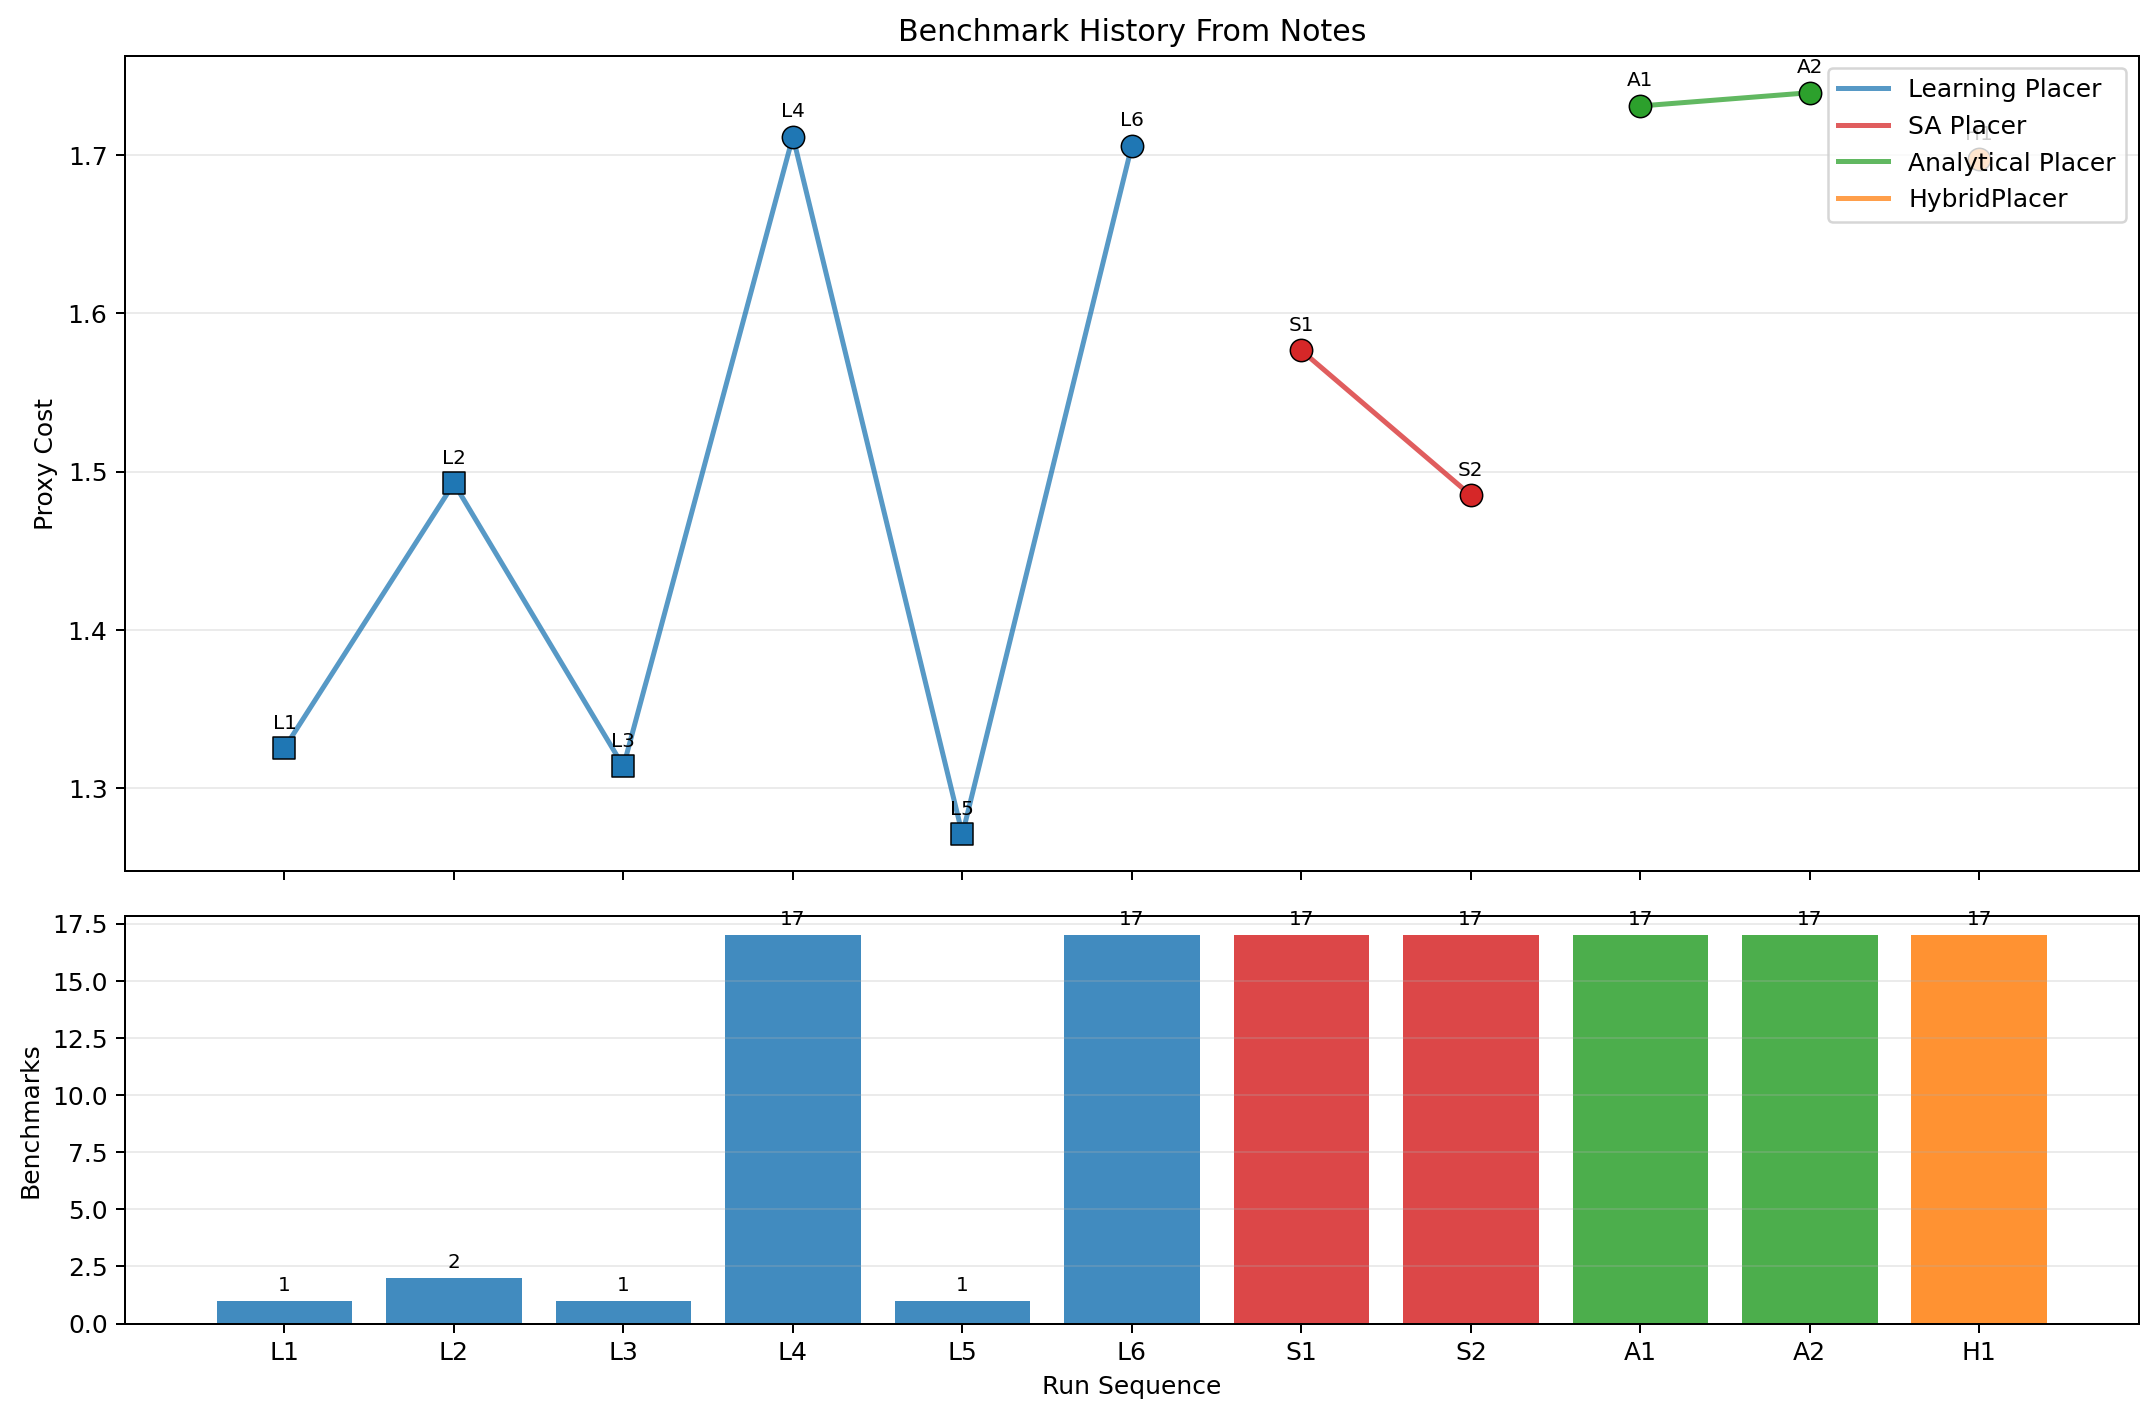
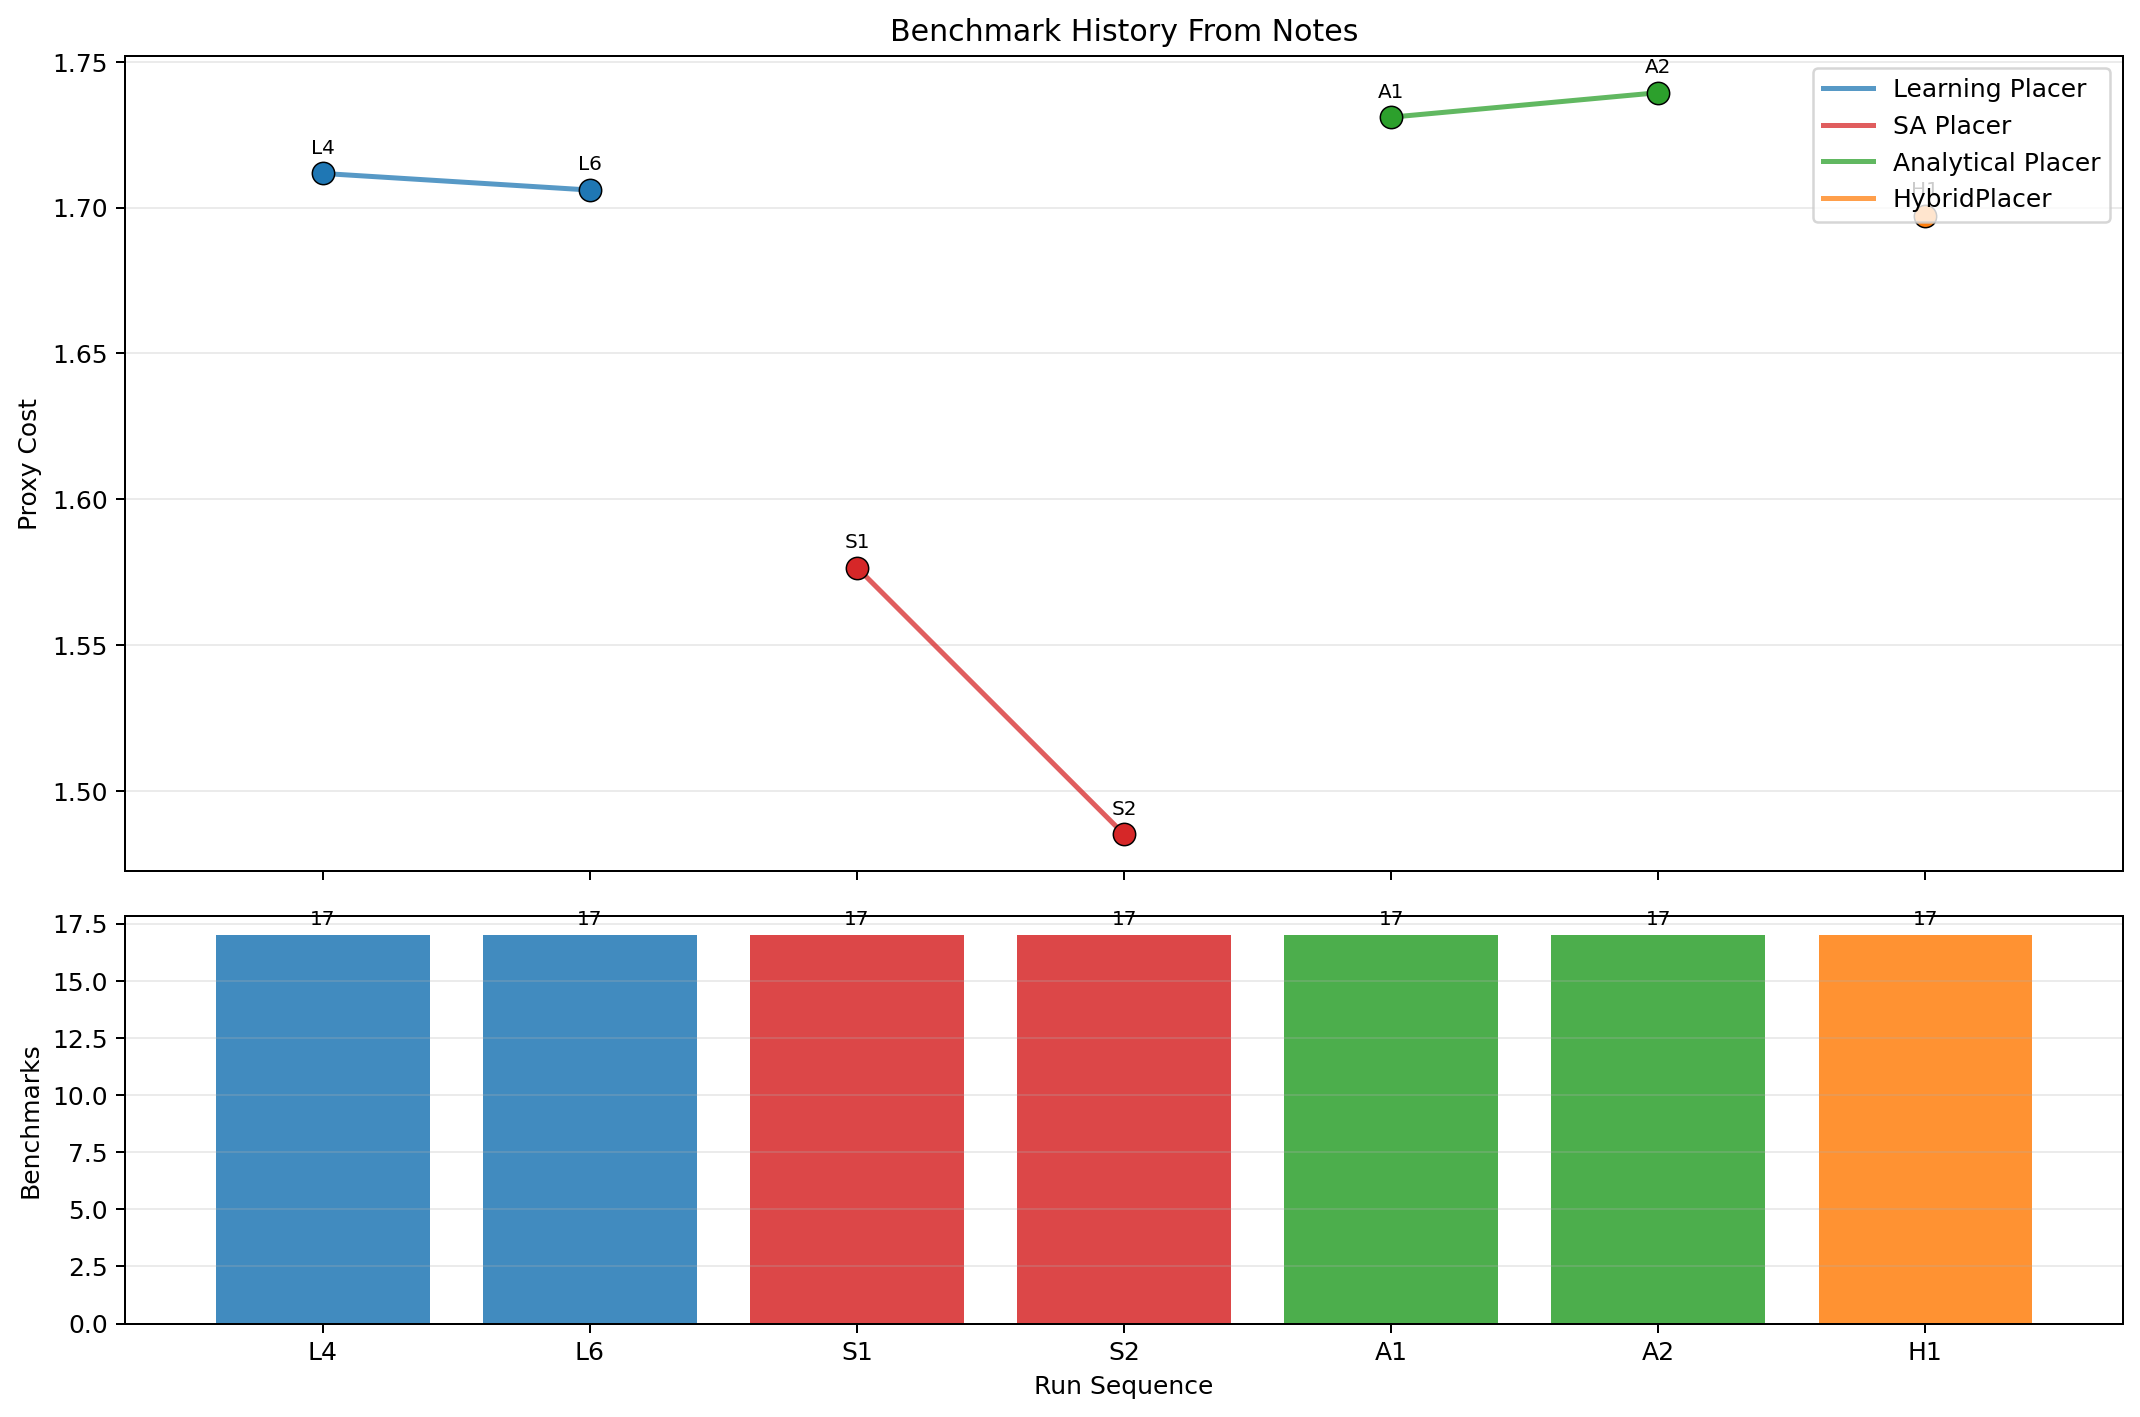
Update benchmark history documentation and filtering logic for full-suite runs

diff --git a/notes/benchmark history/generate_benchmark_history.py b/notes/benchmark history/generate_benchmark_history.py
@@ -350,10 +350,10 @@ def write_summary_markdown(runs: list[RunRecord]) -> None:
     lines = [
         "# Benchmark History Summary",
         "",
-        "This graph summarizes the benchmark sections logged in the notes.",
+        "This graph summarizes the full-suite benchmark sections logged in the notes.",
         "",
-        "- Top plot: proxy trend over run history. For full-suite runs, this uses the logged AVG proxy. For partial runs, it uses the mean proxy of the benchmarks listed in that section.",
-        "- Bottom plot: how many benchmarks were logged in that section, so spot checks and full-suite runs are easy to distinguish.",
+        "- Top plot: proxy trend over run history using the logged AVG proxy from each full-suite run.",
+        "- Bottom plot: how many benchmarks were logged in each included run.",
         "",
         "![Benchmark history summary](benchmark_history_summary.png)",
         "",
@@ -456,6 +456,10 @@ def main() -> None:
         parser_runs, parser_rows = parser()
         runs.extend(parser_runs)
         rows.extend(parser_rows)
+
+    full_suite_ids = {run.run_id for run in runs if run.scope == "full_suite"}
+    runs = [run for run in runs if run.run_id in full_suite_ids]
+    rows = [row for row in rows if str(row["run_id"]) in full_suite_ids]
 
     def run_sort_key(run_id: str) -> tuple[int, int]:
         prefix_order = {"L": 1, "S": 2, "A": 3, "H": 4}

diff --git a/notes/benchmark history/benchmark_history_raw.md b/notes/benchmark history/benchmark_history_raw.md
@@ -6,11 +6,7 @@ Generated from the note files in this directory.
 
 | Run ID | Method | Date | Title | Scope | Benchmarks Logged | Plotted Proxy | Full-Suite Avg Proxy | Total Runtime (s) | Source |
 |--------|--------|------|-------|-------|-------------------|---------------|----------------------|-------------------|--------|
-| L1 | Learning Placer | 2026-04-03 | Initial implementation (GNN + refine, no SA polish) | partial | 1 | 1.3252 | - | 192.21 | (RL method)eklundnotes.md |
-| L2 | Learning Placer | 2026-04-03 | Vectorized LSE-HPWL (GNN 80 + refine 300, no SA polish) | partial | 2 | 1.4926 | - | 9.83 | (RL method)eklundnotes.md |
-| L3 | Learning Placer | 2026-04-03 | Added SA polish + multi-start (GNN 80 + refine 400 + SA 30K, 3 starts) | partial | 1 | 1.3136 | - | 15.96 | (RL method)eklundnotes.md |
 | L4 | Learning Placer | 2026-04-03 | Stronger density + congestion proxy + target_util=0.6 | full_suite | 17 | 1.7117 | 1.7117 | 170.83 | (RL method)eklundnotes.md |
-| L5 | Learning Placer | 2026-04-03 | Heavy SA polish (GNN 60 + refine 200 + SA 100K, 1 start) | partial | 1 | 1.2707 | - | 9.12 | (RL method)eklundnotes.md |
 | L6 | Learning Placer | 2026-04-04 | Full suite rerun (`--no-media`) | full_suite | 17 | 1.7060 | 1.7060 | 457.74 | (RL method)eklundnotes.md |
 | S1 | SA Placer | 2026-04-03 | SA Placer (PLACER_METHOD=sa) | full_suite | 17 | 1.5765 | 1.5765 | 215.00 | (SA + Analytical method) Omnellnotes.md |
 | S2 | SA Placer | 2026-04-04 | SA Placer (PLACER_METHOD=sa) | full_suite | 17 | 1.4850 | 1.4850 | 999.38 | (SA + Analytical method) Omnellnotes.md |
@@ -22,10 +18,6 @@ Generated from the note files in this directory.
 
 | Run ID | Method | Benchmark | Proxy | WL | Density | Congestion | Time (s) | Source |
 |--------|--------|-----------|-------|----|---------|------------|----------|--------|
-| L1 | Learning Placer | ibm01 | 1.3252 | 0.076 | 1.043 | 1.456 | 192.21 | (RL method)eklundnotes.md |
-| L2 | Learning Placer | ibm01 | 1.3224 | 0.074 | 1.077 | 1.420 | 3.76 | (RL method)eklundnotes.md |
-| L2 | Learning Placer | ibm04 | 1.6628 | 0.071 | 1.098 | 2.085 | 6.07 | (RL method)eklundnotes.md |
-| L3 | Learning Placer | ibm01 | 1.3136 | 0.069 | 1.077 | 1.412 | 15.96 | (RL method)eklundnotes.md |
 | L4 | Learning Placer | ibm01 | 1.2429 | 0.069 | 1.029 | 1.318 | 5.55 | (RL method)eklundnotes.md |
 | L4 | Learning Placer | ibm02 | 1.7320 | 0.080 | 0.960 | 2.344 | 8.87 | (RL method)eklundnotes.md |
 | L4 | Learning Placer | ibm03 | 1.7874 | 0.080 | 1.152 | 2.264 | 5.47 | (RL method)eklundnotes.md |
@@ -43,7 +35,6 @@ Generated from the note files in this directory.
 | L4 | Learning Placer | ibm16 | 1.7684 | 0.048 | 1.070 | 2.370 | 9.52 | (RL method)eklundnotes.md |
 | L4 | Learning Placer | ibm17 | 1.7908 | 0.053 | 1.011 | 2.465 | 14.32 | (RL method)eklundnotes.md |
 | L4 | Learning Placer | ibm18 | 1.8329 | 0.053 | 1.109 | 2.451 | 6.87 | (RL method)eklundnotes.md |
-| L5 | Learning Placer | ibm01 | 1.2707 | 0.067 | 1.046 | 1.360 | 9.12 | (RL method)eklundnotes.md |
 | L6 | Learning Placer | ibm01 | 1.2707 | 0.067 | 1.046 | 1.360 | 21.37 | (RL method)eklundnotes.md |
 | L6 | Learning Placer | ibm02 | 1.7309 | 0.079 | 0.945 | 2.358 | 21.11 | (RL method)eklundnotes.md |
 | L6 | Learning Placer | ibm03 | 1.7636 | 0.079 | 1.149 | 2.220 | 15.17 | (RL method)eklundnotes.md |

diff --git a/notes/benchmark history/benchmark_history_summary.md b/notes/benchmark history/benchmark_history_summary.md
@@ -1,9 +1,9 @@
 # Benchmark History Summary
 
-This graph summarizes the benchmark sections logged in the notes.
+This graph summarizes the full-suite benchmark sections logged in the notes.
 
-- Top plot: proxy trend over run history. For full-suite runs, this uses the logged AVG proxy. For partial runs, it uses the mean proxy of the benchmarks listed in that section.
-- Bottom plot: how many benchmarks were logged in that section, so spot checks and full-suite runs are easy to distinguish.
+- Top plot: proxy trend over run history using the logged AVG proxy from each full-suite run.
+- Bottom plot: how many benchmarks were logged in each included run.
 
 ![Benchmark history summary](benchmark_history_summary.png)
 
@@ -11,11 +11,7 @@ This graph summarizes the benchmark sections logged in the notes.
 
 | Run ID | Method | Date | Scope | Plotted Proxy | Benchmarks Logged |
 |--------|--------|------|-------|---------------|-------------------|
-| L1 | Learning Placer | 2026-04-03 | partial | 1.3252 | 1 |
-| L2 | Learning Placer | 2026-04-03 | partial | 1.4926 | 2 |
-| L3 | Learning Placer | 2026-04-03 | partial | 1.3136 | 1 |
 | L4 | Learning Placer | 2026-04-03 | full_suite | 1.7117 | 17 |
-| L5 | Learning Placer | 2026-04-03 | partial | 1.2707 | 1 |
 | L6 | Learning Placer | 2026-04-04 | full_suite | 1.7060 | 17 |
 | S1 | SA Placer | 2026-04-03 | full_suite | 1.5765 | 17 |
 | S2 | SA Placer | 2026-04-04 | full_suite | 1.4850 | 17 |
